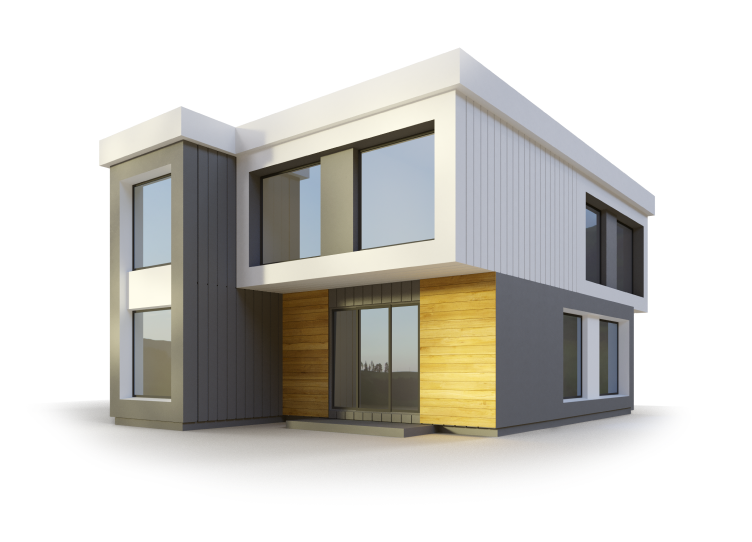
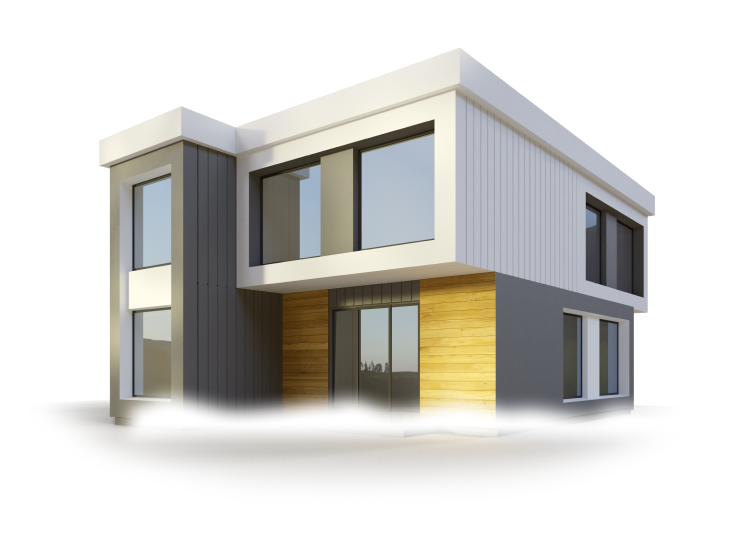
maked center house

Changed region(s): [[0.1529, 0.7085, 0.887, 0.8266]]

diff --git a/src/scss/blocks/promo.scss b/src/scss/blocks/promo.scss
@@ -15,7 +15,8 @@
    // .promo__container
    &__container {
       @include adaptiveValue("padding-top", 151, 118);
-      @include adaptiveValue("padding-bottom", 76, 83);
+      @include adaptiveValue("padding-bottom", 74, 83);
+      // padding-bottom: clamp(rem(74), vh(74, 1080), rem(83));
       position: relative;
 
       flex-grow: 1;
@@ -26,6 +27,12 @@
       &_wide {
          max-width: rem(1678);
       }
+      @media (min-width: $pc) and (max-height: em(1079)) {
+         padding-bottom: rem(40);
+      }
+      & > * {
+         z-index: 1;
+      }
    }
    &__wrap {
    }
@@ -34,16 +41,52 @@
       max-width: rem(1264);
       text-align: center;
    }
+   &__picture {
+      position: relative;
+      flex-grow: 1;
+      // height: rem(394); 309
+      // @include adaptiveValue("flex-basis", 375, 309);
+      flex-basis: percent(383, 929);
+      min-height: rem(309);
+      max-height: rem(383);
+      width: 100%;
+      @media (min-width: $pc) and (max-height: em(1079)) {
+         max-height: none;
+      }
+      z-index: auto;
+   }
+   &__build-block {
+      position: absolute;
+      // width: 100%;
+      height: percent(542, 383);
+      aspect-ratio: 752 / 542;
+      top: percent(-60, 383);
+      // top: 50%;
+      // left: percent(332, 1522);
+      left: 43%;
+      transform: translate(-43%, 0);
+   }
+   &__build-img {
+      position: absolute;
+      width: 100%;
+      height: 100%;
+      top: 0;
+      left: 0;
+      object-fit: contain;
+   }
    // .promo__leave-request
    &__leave-request {
-      flex-grow: 1;
-
-      display: flex;
-      justify-content: center;
-      align-items: flex-end;
+      // display: flex;
+      // justify-content: center;
+      // align-items: flex-end;
 
       &:not(:last-child) {
          margin-bottom: rem(55);
+         // margin-bottom: vh(50, 1080);
+         // margin-bottom: clamp(rem(10), vh(50, 1080), rem(55));
+         @media (min-width: $pc) and (max-height: em(1079)) {
+            margin-bottom: rem(20);
+         }
       }
    }
    // .promo__scroll
@@ -54,8 +97,14 @@
       transform: translateY(-50%);
    }
    &__advantages {
+      --card-advantage-w: #{rem(263)};
+      --card-advantage-pt: #{rem(35)};
+      --card-advantage-pl: #{rem(40)};
       @media (min-width: em(1700)) {
          margin: 0 rem(-78);
+      }
+      @media (min-width: $pc) and (max-height: em(1079)) {
+         --card-advantage-pt: #{rem(20)};
       }
    }
 }

diff --git a/src/scss/base/mixins.scss b/src/scss/base/mixins.scss
@@ -3,7 +3,9 @@
 	@font-face {
 		font-family: $font_name;
 		font-display: swap;
-		src: url("../fonts/#{$file_name}.woff2") format("woff2"), url("../fonts/#{$file_name}.woff") format("woff");
+		src:
+			url("../fonts/#{$file_name}.woff2") format("woff2"),
+			url("../fonts/#{$file_name}.woff") format("woff");
 		font-weight: #{$weight};
 		font-style: #{$style};
 	}
@@ -26,6 +28,11 @@
 //vw
 @function vw($px, $from: $maxWidth) {
 	$result: math.div($px, $from) * 100vw;
+	@return $result;
+}
+// vh
+@function vh($px, $from) {
+	$result: math.div($px, $from) * 100vh;
 	@return $result;
 }
 // fr

diff --git a/src/home.html b/src/home.html
@@ -15,6 +15,12 @@
 						Быстровозводимые здания <br class="title__br">из стеклофибробетона <strong>сроком службы <br>более 100
 							лет</strong>
 					</h1>
+					<div class="promo__picture">
+						<div class="promo__build-block">
+							<img class="promo__build-img" data-src="@img/mainpage/promo/illustration/center/192_1 1.png"
+								alt="">
+						</div>
+					</div>
 					<div class="promo__leave-request">
 						<a href="" class="button">Оставить заявку</a>
 					</div>

diff --git a/src/scss/blocks/advantages.scss b/src/scss/blocks/advantages.scss
@@ -5,9 +5,10 @@
    gap: rem(20);
    // .advantages__item
    &__item {
-      flex: 0 0 rem(263);
+      flex: 0 0 var(--card-advantage-w, rem(263));
       // flex: 0 0 percent(263, 1678);
-      padding: rem(41) rem(44) rem(32) rem(32);
+      // padding: rem(41) rem(44) rem(32) rem(32);
+      padding: var(--card-advantage-pt, rem(40)) var(--card-advantage-pl, rem(40));
       // display: grid;
       // row-gap: rem(20);
 
